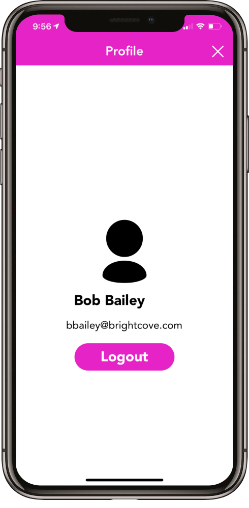
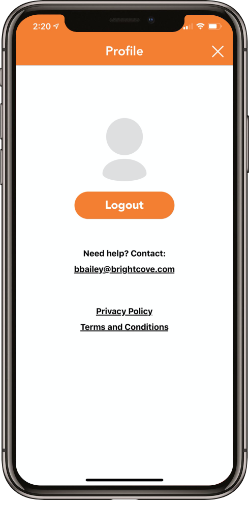
add notes about related content

Changed region(s): [[0.253, 0.2071, 0.7309, 0.7396], [0.0562, 0.0296, 0.9558, 0.1479], [0.0, 0.9172, 1.0, 1.0]]

diff --git a/get-started/using-brightcove-engage-app.html b/get-started/using-brightcove-engage-app.html
@@ -2,7 +2,6 @@
 title: Using the Brightcove Engage Application
 parent: Getting Started
 ---
-
 <article class="bcls-article">
   <h1>Using the Brightcove Engage&trade; Application</h1>
   <summary>In this topic you will learn how to install and use the Brightcove Engage application on a mobile device.</summary>
@@ -18,7 +17,7 @@ parent: Getting Started
       <li>Tap <strong>Get</strong> to download and install the app.</li>
       <li>Tap <strong>Open </strong>or open the <strong>Brightcove Engage</strong> app on your device.</li>
       <li>Enter the <strong>Access Key</strong> for the experience.
-<figure class="bcls-figure"><img class="bcls-image--no-border" alt="" src="/assets/images/get-started/ios-welcome.png" /></figure>
+        <figure class="bcls-figure"><img class="bcls-image--no-border" alt="" src="/assets/images/get-started/ios-welcome.png" /></figure>
       </li>
       <li>Click <strong>Next</strong>.</li>
     </ol>
@@ -61,8 +60,14 @@ parent: Getting Started
     </ul>
   </section>
   <section class="bcls-section">
-    <h2 id="profile">Changing the Access Key</h2>
-    <p>The Access Key can be changed by clicking the profile icon (<img class="bcls-image--no-border" alt="" src="/assets/images/get-started/user-profile-icon.png" />) at the top of the app. The Profile page will also display the user name and email used to login to the app if SSO is configured.</p>
+    <h2 id="profile">Viewing the profile page</h2>
+    <p>Clicking the profile icon (<img class="bcls-image--no-border" alt="" src="/assets/images/get-started/user-profile-icon.png" />) at the top of the app will open the Profile page. The Privacy Policy, Terms and Conditions and Help Contact Email will appear on the Profile page if they were entered as part of the <a href="/experiences/editing-experience-details.html">experience details</a>.</p>
     <figure class="bcls-figure"><img class="bcls-image--no-border" alt="" src="/assets/images/get-started/mobile-app-profile-page.png" /></figure>
+    <h3>Changing the Access Key</h3>
+    <p>The Profile page will also display the user name and email used to login to the app if SSO is configured.</p>
+    <p>
+      <figure class="bcls-figure"><img class="bcls-image--no-border" alt="" src="/assets/images/get-started/mobile-app-profile-page-sso.png" /></figure>
+    </p>
+    <p>To change the Access Key, click <strong>Logout</strong>.</p>
   </section>
 </article>

diff --git a/_site/get-started/using-brightcove-engage-app.html b/_site/get-started/using-brightcove-engage-app.html
@@ -378,7 +378,7 @@ function doGTranslate(lang_pair) {if(lang_pair.value)lang_pair=lang_pair.value;i
       <li>Tap <strong>Get</strong> to download and install the app.</li>
       <li>Tap <strong>Open </strong>or open the <strong>Brightcove Engage</strong> app on your device.</li>
       <li>Enter the <strong>Access Key</strong> for the experience.
-<figure class="bcls-figure"><img class="bcls-image--no-border" alt="" src="/assets/images/get-started/ios-welcome.png" /></figure>
+        <figure class="bcls-figure"><img class="bcls-image--no-border" alt="" src="/assets/images/get-started/ios-welcome.png" /></figure>
       </li>
       <li>Click <strong>Next</strong>.</li>
     </ol>
@@ -421,9 +421,15 @@ function doGTranslate(lang_pair) {if(lang_pair.value)lang_pair=lang_pair.value;i
     </ul>
   </section>
   <section class="bcls-section">
-    <h2 id="profile">Changing the Access Key</h2>
-    <p>The Access Key can be changed by clicking the profile icon (<img class="bcls-image--no-border" alt="" src="/assets/images/get-started/user-profile-icon.png" />) at the top of the app. The Profile page will also display the user name and email used to login to the app if SSO is configured.</p>
+    <h2 id="profile">Viewing the profile page</h2>
+    <p>Clicking the profile icon (<img class="bcls-image--no-border" alt="" src="/assets/images/get-started/user-profile-icon.png" />) at the top of the app will open the Profile page. The Privacy Policy, Terms and Conditions and Help Contact Email will appear on the Profile page if they were entered as part of the <a href="/experiences/editing-experience-details.html">experience details</a>.</p>
     <figure class="bcls-figure"><img class="bcls-image--no-border" alt="" src="/assets/images/get-started/mobile-app-profile-page.png" /></figure>
+    <h3>Changing the Access Key</h3>
+    <p>The Profile page will also display the user name and email used to login to the app if SSO is configured.</p>
+    <p>
+      <figure class="bcls-figure"><img class="bcls-image--no-border" alt="" src="/assets/images/get-started/mobile-app-profile-page-sso.png" /></figure>
+    </p>
+    <p>To change the Access Key, click <strong>Logout</strong>.</p>
   </section>
 </article>
 

diff --git a/_site/videos/editing-video-properties.html b/_site/videos/editing-video-properties.html
@@ -419,7 +419,8 @@ function doGTranslate(lang_pair) {if(lang_pair.value)lang_pair=lang_pair.value;i
         </ul>
       </li>
       <li><strong>Related Link URL</strong> - A standard web URL beginning with http:// or https:// limited to 255 characters.</li>
-      <li><strong>Related Link Text</strong> - Related link text limited to 255 characters.</li>
+      <li><strong>Related Link Text</strong> - Related link text limited to 255 characters.
+       <aside class="bcls-aside bcls-aside--information language-editable">Note: Related links will appear below videos with Mobile App experiences.</aside> </li>
       <li><strong>Long Description</strong> - No more than 5000 characters. </li>
       <li><strong>Manual Playlists</strong> - Playlists that this video belongs to. For more information, see <a href="/videos/creating-and-managing-playlists.html">Creating and Managing Playlists</a>.</li>
       <li><strong>Sharing</strong> - Indicates if the video has been shared to another account. For more information, see <a href="/videos/working-with-shared-videos.html">Working with Shared Videos</a>.</li>

diff --git a/videos/editing-video-properties.html b/videos/editing-video-properties.html
@@ -58,7 +58,8 @@ parent: Managing Videos
         </ul>
       </li>
       <li><strong>Related Link URL</strong> - A standard web URL beginning with http:// or https:// limited to 255 characters.</li>
-      <li><strong>Related Link Text</strong> - Related link text limited to 255 characters.</li>
+      <li><strong>Related Link Text</strong> - Related link text limited to 255 characters.
+       <aside class="bcls-aside bcls-aside--information language-editable">Note: Related links will appear below videos with Mobile App experiences.</aside> </li>
       <li><strong>Long Description</strong> - No more than 5000 characters. </li>
       <li><strong>Manual Playlists</strong> - Playlists that this video belongs to. For more information, see <a href="/videos/creating-and-managing-playlists.html">Creating and Managing Playlists</a>.</li>
       <li><strong>Sharing</strong> - Indicates if the video has been shared to another account. For more information, see <a href="/videos/working-with-shared-videos.html">Working with Shared Videos</a>.</li>

diff --git a/_site/experiences/editing-experience-details.html b/_site/experiences/editing-experience-details.html
@@ -400,7 +400,7 @@ function doGTranslate(lang_pair) {if(lang_pair.value)lang_pair=lang_pair.value;i
 
 <hr>
 <div class="last-updated">
-  Page last updated on 03 Feb 2020
+  Page last updated on 12 Mar 2020
 </div>
 
 <footer class="bcls-footer" role="contentinfo">
